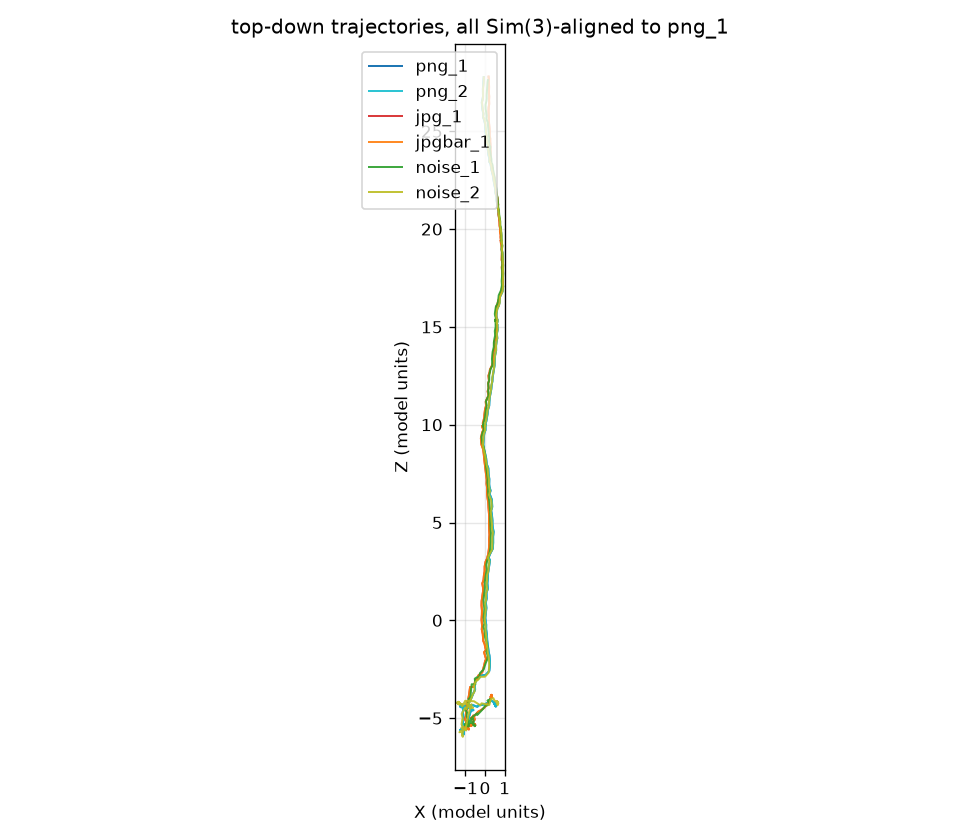
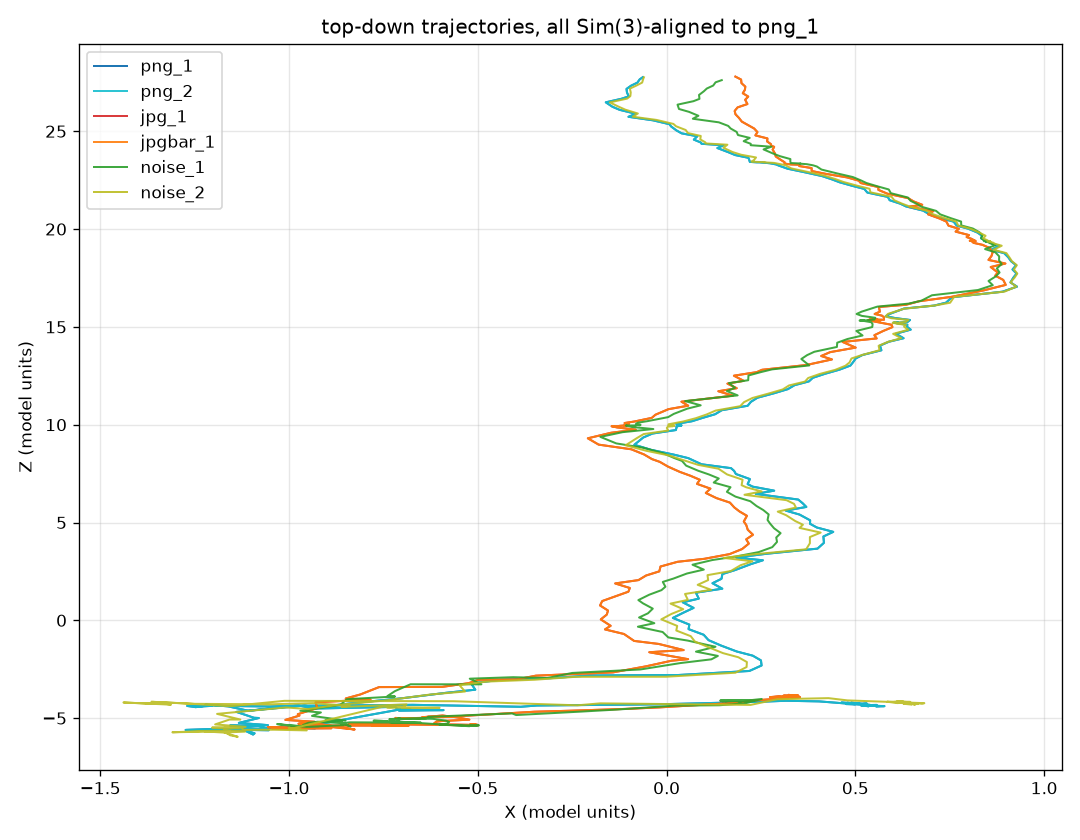
adjust readme, add figures, revise figure sizes/config

diff --git a/analysis/eval.py b/analysis/eval.py
@@ -95,11 +95,11 @@ for a in RUNS:
 Path("figures").mkdir(exist_ok=True)
 colors = {"png_1": "tab:blue", "png_2": "tab:cyan", "jpg_1": "tab:red", "jpgbar_1": "tab:orange", "noise_1": "tab:green", "noise_2": "tab:olive"}
 
-fig, ax = plt.subplots(figsize=(8, 7))
+fig, ax = plt.subplots(figsize=(9, 7))
 for r in RUNS:
     P = aligned[r]
     ax.plot(P[:, 0], P[:, 2], lw=1.2, color=colors[r], label=r, alpha=0.9 if r != REF else 1)
-ax.set_xlabel("X (model units)"); ax.set_ylabel("Z (model units)"); ax.set_aspect("equal")
+ax.set_xlabel("X (model units)"); ax.set_ylabel("Z (model units)")
 ax.set_title(f"top-down trajectories, all Sim(3)-aligned to {REF}"); ax.legend(); ax.grid(alpha=0.3)
 plt.tight_layout(); plt.savefig("figures/overlay_aligned.png", dpi=120)
 

diff --git a/analysis/plot_pair.py b/analysis/plot_pair.py
@@ -16,9 +16,9 @@ png = load_centres("runs/out/png_1/camera_poses.txt")
 jpg = load_centres("runs/out/jpg_1/camera_poses.txt")
 jpg_al, s = align(jpg, png)
 
-fig, ax = plt.subplots(figsize=(8, 7))
+fig, ax = plt.subplots(figsize=(9, 7))
 ax.plot(png[:, 0], png[:, 2], c="blue", lw=1.5, label="PNG")
 ax.plot(jpg_al[:, 0], jpg_al[:, 2], c="red", lw=1.5, label=f"JPG (aligned, scale {s:.3f})")
-ax.set_xlabel("X (model units)"); ax.set_ylabel("Z (model units)"); ax.set_aspect("equal")
+ax.set_xlabel("X (model units)"); ax.set_ylabel("Z (model units)")
 ax.grid(alpha=0.3); ax.legend(); ax.set_title("Our reproduction: PNG vs JPG, top-down")
 plt.tight_layout(); plt.savefig("figures/pair_png_jpg.png", dpi=120); print("wrote figures/pair_png_jpg.png")

diff --git a/README.md b/README.md
@@ -1,0 +1,138 @@
+# Engineering Log
+
+## TLDR:
+Question: why do PNG and JPG versions of the same 300 frames give different camera paths in DA3-Streaming?
+Answer: the JPG pixels differ from the PNG pixels by one JPEG compression. DA3-Streaming gives the same path for the same input every time, ignores file type, and moves its answer by under 1% of the path whenever the pixels change by even one shade — from JPEG or from random noise alike.
+Not checked: which step inside the program is the sensitive one; why the provided figure shows a bigger gap than I reproduced.
+
+## Hypothesis
+
+**Theme**
+
+scene is compressed differently png and jpg which reveal different effects when applying DA3 onto it. Question: what is the cause? Supposedly, the scenes are "identical" in the original scene and frame count. Nuance: what are some technical differences in the compression technique that can lead to this, is it just lossy vs lossless?
+
+Consider: shape, distribution of the differences.
+
+Used claude to confirm the frame sets are similar: sandbox over the framesets found 300x300 dist matrix. 
+
+Apparently, mac zipping has unique tendencies that I have to undo with mACOSX. In this same step, I verified that the scenes came from the same scene by checking the size being both 300. 
+
+### Graph Interpretation:
+From the curve provided: 
+TODO: consider the curves were aligned via a transform onto another, so their practical difference is likely larger, could just be a positional displacement but could also be greater than that. Unsure exactly what to do with this information.
+
+**Interpretation**
+This is on camera extrinsics information because it's missing a yth dimension, so it cannot be teh depth map DA3 outputs since this graph would not be useful that way at all.
+- the two curves are heavily correlated but differ locally: it's very strange because PNG is lossless and jpg is lossy, but PNG has more variance somehow. So, having more information made the estimation worse which is counterintuitive. This should be something to inspect heavily. 
+- jpg is much smoother past 0 on X
+- heavy cluster below 0 for both curves, likely because camera wasn't really moving then?
+
+
+![Provided figure](figures/trajectory.png)
+*The assessor's figure: PNG and JPG runs, JPG aligned onto PNG.*
+
+![Our reproduction](figures/pair_png_jpg.png)
+*Our reproduction at default settings. Same shape — knot at the start, straight walk — but the two paths sit much closer after alignment.*
+
+### Test 1: Frame identity and motion profile
+
+| Measure | PNG | JPG | Reading |
+|---|---|---|---|
+| Frame count | 300 | 300 | Same count |
+| Nearest-neighbour matches on diagonal | 300 / 300 | — | Every PNG's closest JPG is its own index |
+| Offset histogram | {0: 300} | — | No shifted, dropped, or duplicated frames |
+| Mean distance to matched JPG | 0.093 | — | Under a tenth of a gray level |
+| Mean distance to runner-up JPG | 7.73 | — | Next-best is ~83× farther; match is unambiguous |
+| Motion-profile correlation | 0.99999 | | Identical temporal structure |
+| Near-static consecutive pairs | 48 | 45 | JPEG rounding slightly separates near-duplicate frames |
+
+**methodology**
+
+Inspect the components of the frames for being identical through Pillow gray lvl 3 core components:
+- gray lvl: checks whether the frames are the same
+- minimum lvl: checks the arrays for the smallest difference, identify the frame counts from each of png and jpg to see if it matches. If so, the frame is positioned in the same way
+- Progression: check the rate of change in gray lvl to verify the two compressions move in about the same manner
+
+Compile into Json for inspection
+
+**conclusion** frames, arrangement, progression of scenes identical. png vs jpg difference not attributable here.
+
+### Test 2: metadata and general information
+
+| Measure | PNG | JPG | Reading |
+|---|---|---|---|
+| Unique attribute combinations | 1 (300 files) | 1 (300 files) | Every file within each set is homogeneous; no anomalous frame |
+| Format (from file signature) | PNG | JPEG | File contents match extension |
+| Dimensions | 1024 × 576 | 1024 × 576 | Same pixel grid; no resize or crop difference |
+| Colour mode | RGB | RGB | Three 8-bit channels, no alpha in either set |
+| Ancillary metadata keys | none | jfif, jfif_version, jfif_density, jfif_unit | PNG carries nothing; JPG carries only JFIF container boilerplate
+
+My guess was that the metadata would be identical to begin with, but the verification step wasn't too tedious so I thought we'd just run it. 
+
+### Test 3: Internal inspection file conversion 
+
+The objective here is to outline exactly where and the internal logic behind when DA3 converts the frames into values and the subsequent averaging and transformations that may compound any noise present. 
+
+**methodology** 
+I applied DA3's method to claude and requested to locate core components that are relevant to inspect logic myself:
+- the conversion of frames into array 
+- Transformations: I realized after taht different transformations would compound noise, the origin and "root cause" which is the intention of this project which should be the central thesis to look for
+- claude suggested the chunking logic, but I think it's trivial because the frames have identical dimensions, specifications, etc. which makes chunking likely largely identical, but TODO: inspect chunking logic in case
+
+**decoder inspection**
+DA3 processes every scene received through Image.open(path).convert("RGB"), but Pillow internally is what converts the frames to arrays. Pillow differentiates in method:
+- jpg is unpack compression, run discrete cos transform, restore half resolution RGB and then turn into RGB proper
+- png is just decompress (zlib inflate), then undo the per-row prediction filter. No transform, no rounding; output is bit-identical to what was encoded.
+
+### Test 4: reencoding png into jpg
+The objective is to rule out different explanations by turning the png into a jpg to inspect core features of the frames. 
+
+| Measure | Result | Reading |
+|---|---|---|
+| Recipe read from JPG header | 4:2:0 colour, grid = q95 | Encoder settings recovered from the file itself |
+| PNG compressed with that recipe == given JPG | 300/300 bytes | JPGs are exactly the PNGs compressed once; nothing else happened |
+
+While it fulfills partially repetitive functions, the central objective of step 4 is to prepare for step 5 to show that the only core difference in a png and jpg is the comrpession step alone and nothing else.This means there's only two explanations that remain, it's either caused by the process of lossy compression which permanently alters the pixels, or it's the formatting of the jpg vs png such that the decoder evaluates the two differently.
+
+### Test 5: DA3-Streaming runs align to png
+
+Pose files are camera-to-world (da3_streaming.py:717); camera position is the translation column.
+Config: default (chunk 120, overlap 60, 504 px longest side), save_depth_conf_result on. A100 40 GB, torch 2.14, DA3 commit 3d835ec.
+
+| Run | Input | ATE (resize allowed) | ATE (fixed size) | Scale | Jitter (raw / scale-corrected) | Worst frame | Path length |
+|---|---|---|---|---|---|---|---|
+| png_1 | original PNG | 0 | 0 | 1.000 | 0.130 / 0.130 | 0 | 42.80 |
+| png_2 | same PNG, rerun | 0.000 | 0.002 | 1.000 | 0.130 / 0.130 | 0.000 | 42.79 |
+| jpg_1 | original JPG | 0.361 | 1.095 | 1.102 | 0.106 / 0.117 | 0.894 | 37.39 |
+| jpgbar_1 | JPG pixels, PNG container | 0.361 | 1.095 | 1.102 | 0.106 / 0.117 | 0.894 | 37.39 |
+| noise_1 | PNG + random ±1, seed 0 | 0.361 | 1.359 | 1.133 | 0.096 / 0.109 | 0.931 | 35.64 |
+| noise_2 | PNG + random ±1, seed 1 | 0.090 | 0.176 | 1.014 | 0.148 / 0.150 | 0.265 | 43.43 |
+
+Pairwise ATE (resize allowed), row overlaid onto column:
+
+| | png_1 | png_2 | jpg_1 | jpgbar_1 | noise_1 | noise_2 |
+|---|---|---|---|---|---|---|
+| png_1 | 0 | 0.000 | 0.328 | 0.328 | 0.319 | 0.089 |
+| png_2 | 0.000 | 0 | 0.328 | 0.328 | 0.319 | 0.089 |
+| jpg_1 | 0.361 | 0.361 | 0 | 0.000 | 0.116 | 0.379 |
+| jpgbar_1 | 0.361 | 0.361 | 0.000 | 0 | 0.116 | 0.379 |
+| noise_1 | 0.361 | 0.361 | 0.119 | 0.119 | 0 | 0.400 |
+| noise_2 | 0.090 | 0.090 | 0.348 | 0.348 | 0.358 | 0 |
+
+Readings:
+- png_1 = png_2 → deterministic; not run-to-run noise.
+- jpg_1 = jpgbar_1 → pixel values only; container and decoder irrelevant.
+- The JPG path came out about 10% smaller. That's most of the difference. I haven't checked which step causes it
+- Two random nudges gave two different results. One moved the path about as far as JPEG did; the other barely moved it. The PNG-vs-JPG gap is about the same size as what a random nudge produces
+- Scale-corrected jitter: PNG 0.130 vs JPG 0.117 → PNG slightly wobblier, same direction as the assessor's figure, smaller magnitude.
+- Magnitude of the effect is smaller than in the provided figure; likely a configuration difference (the assessor may have downsampled).
+
+
+![All six runs aligned to png_1](figures/overlay_aligned.png)
+*png_2 sits on png_1; jpgbar_1 sits on jpg_1; noise_1 and noise_2 land in different places.*
+
+![Per-frame error vs png_1](figures/per_frame_error.png)
+*Distance from png_1 at every frame. Dotted lines: chunk boundaries. Shaded: frames where the camera barely moved. Error is largest [fill in from what you see].*
+
+**final interpretation**
+The jpg_bar mimics the behavior of a jpg which means the action of lossy compression caused the difference in behavior. Two random nudges gave two different results. One moved the path about as far as JPEG did; the other barely moved it but did raise the variance. Ultimately, this means the the jpg compression is not a unique transformation that led to this, rather DA3 is sensitive to pixels in general to reach approximations. 
